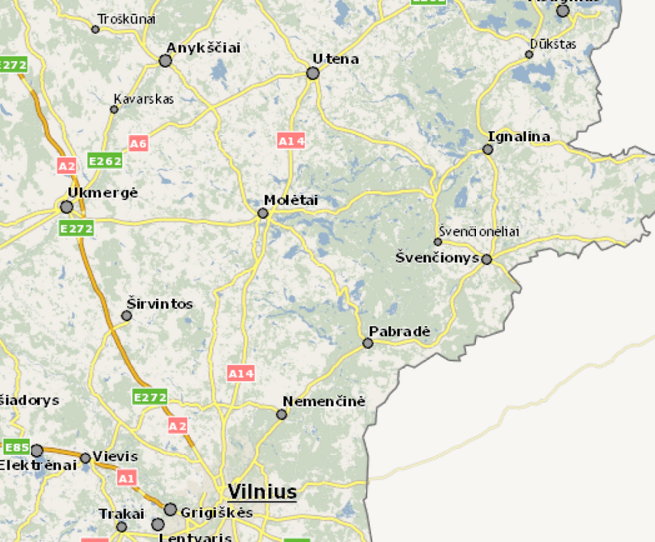
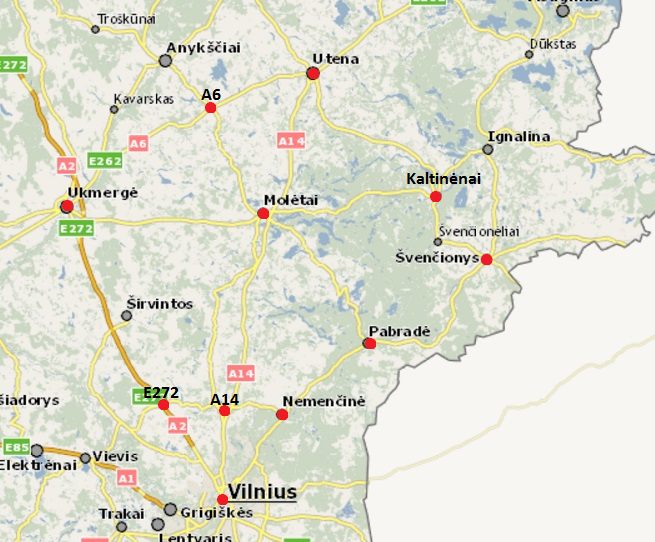
changed map and some tests

diff --git a/gui-app/src/main/java/pathfinder/app/components/PathFinderMenu.java b/gui-app/src/main/java/pathfinder/app/components/PathFinderMenu.java
@@ -2,9 +2,12 @@ package pathfinder.app.components;
 
 import com.badlogic.gdx.Gdx;
 import com.badlogic.gdx.ScreenAdapter;
-import com.badlogic.gdx.graphics.GL20;
-import com.badlogic.gdx.graphics.OrthographicCamera;
-
+import com.badlogic.gdx.graphics.*;
+import com.badlogic.gdx.graphics.g2d.BitmapFont;
+import com.badlogic.gdx.graphics.glutils.ShapeRenderer;
+import com.badlogic.gdx.scenes.scene2d.Stage;
+import com.badlogic.gdx.scenes.scene2d.ui.Skin;
+import com.badlogic.gdx.scenes.scene2d.ui.TextButton;
 import pathfinder.app.PathFinderScreensManager;
 import pathfinder.app.attributes.TextureName;
 import pathfinder.app.context.ScreensContextHolder;
@@ -28,18 +31,60 @@ public class PathFinderMenu extends ScreenAdapter {
     public void draw () {
         UiContext context = ScreensContextHolder.get();
         GL20 gl = Gdx.gl;
-        gl.glClearColor(1, 0, 0, 1);
+        gl.glClearColor(213, 218, 223, 1);
         gl.glClear(GL20.GL_COLOR_BUFFER_BIT);
         guiCam.update();
+
+        Stage stage = new Stage();
+        Gdx.input.setInputProcessor(stage);
+        TextButton button = new TextButton("Paskaiciuoti", createBasicSkin());
+        button.setPosition(0, 700);
+        stage.addActor(button);
+        stage.draw();
+
         game.getBatcher().setProjectionMatrix(guiCam.combined);
         game.getBatcher().enableBlending();
         game.getBatcher().begin();
-        game.getBatcher().draw(context.getTextureRegionByName(TextureName.PATHMAP), 0, 0, 655, 500);
+        game.getBatcher().draw(context.getTextureRegionByName(TextureName.PATHMAP), 0, 0, 655, 542);
         game.getBatcher().end();
+
+        gl.glLineWidth(6);
+        ShapeRenderer shapeRenderer = new ShapeRenderer();
+        shapeRenderer.setProjectionMatrix(guiCam.combined);
+        shapeRenderer.begin(ShapeRenderer.ShapeType.Line);
+        shapeRenderer.setColor(Color.RED);
+        shapeRenderer.line(65, 337, 210, 430);
+        shapeRenderer.line(210, 430, 310, 470);
+        shapeRenderer.end();
+
+
     }
 
     @Override
     public void render(float delta) {
         draw();
+    }
+
+    private Skin createBasicSkin(){
+        //Create a font
+        BitmapFont font = new BitmapFont();
+        Skin skin = new Skin();
+        skin.add("default", font);
+
+        //Create a texture
+        Pixmap pixmap = new Pixmap((int)Gdx.graphics.getWidth()/4,(int)Gdx.graphics.getHeight()/10, Pixmap.Format.RGB888);
+        pixmap.setColor(Color.WHITE);
+        pixmap.fill();
+        skin.add("background",new Texture(pixmap));
+
+        //Create a button style
+        TextButton.TextButtonStyle textButtonStyle = new TextButton.TextButtonStyle();
+        textButtonStyle.up = skin.newDrawable("background", Color.GRAY);
+        textButtonStyle.down = skin.newDrawable("background", Color.DARK_GRAY);
+        textButtonStyle.checked = skin.newDrawable("background", Color.DARK_GRAY);
+        textButtonStyle.over = skin.newDrawable("background", Color.LIGHT_GRAY);
+        textButtonStyle.font = skin.getFont("default");
+        skin.add("default", textButtonStyle);
+        return skin;
     }
 }

diff --git a/gui-app/src/main/java/pathfinder/app/context/PathFinderUiContext.java b/gui-app/src/main/java/pathfinder/app/context/PathFinderUiContext.java
@@ -42,7 +42,9 @@ public class PathFinderUiContext implements UiContext {
     private void initTextures() {
         // initial path map
         texturesRegions.put(TextureName.PATHMAP, TextureUtils.buildTextureRegion(TextUtils.joinPath(MAP_DATA_DIR,"map1.png"),
-                                                                                    0, 0, 600, 500));
+                                                                                    0, 0, 655, 542));
+
+
         // the rest textures....
     }
 
